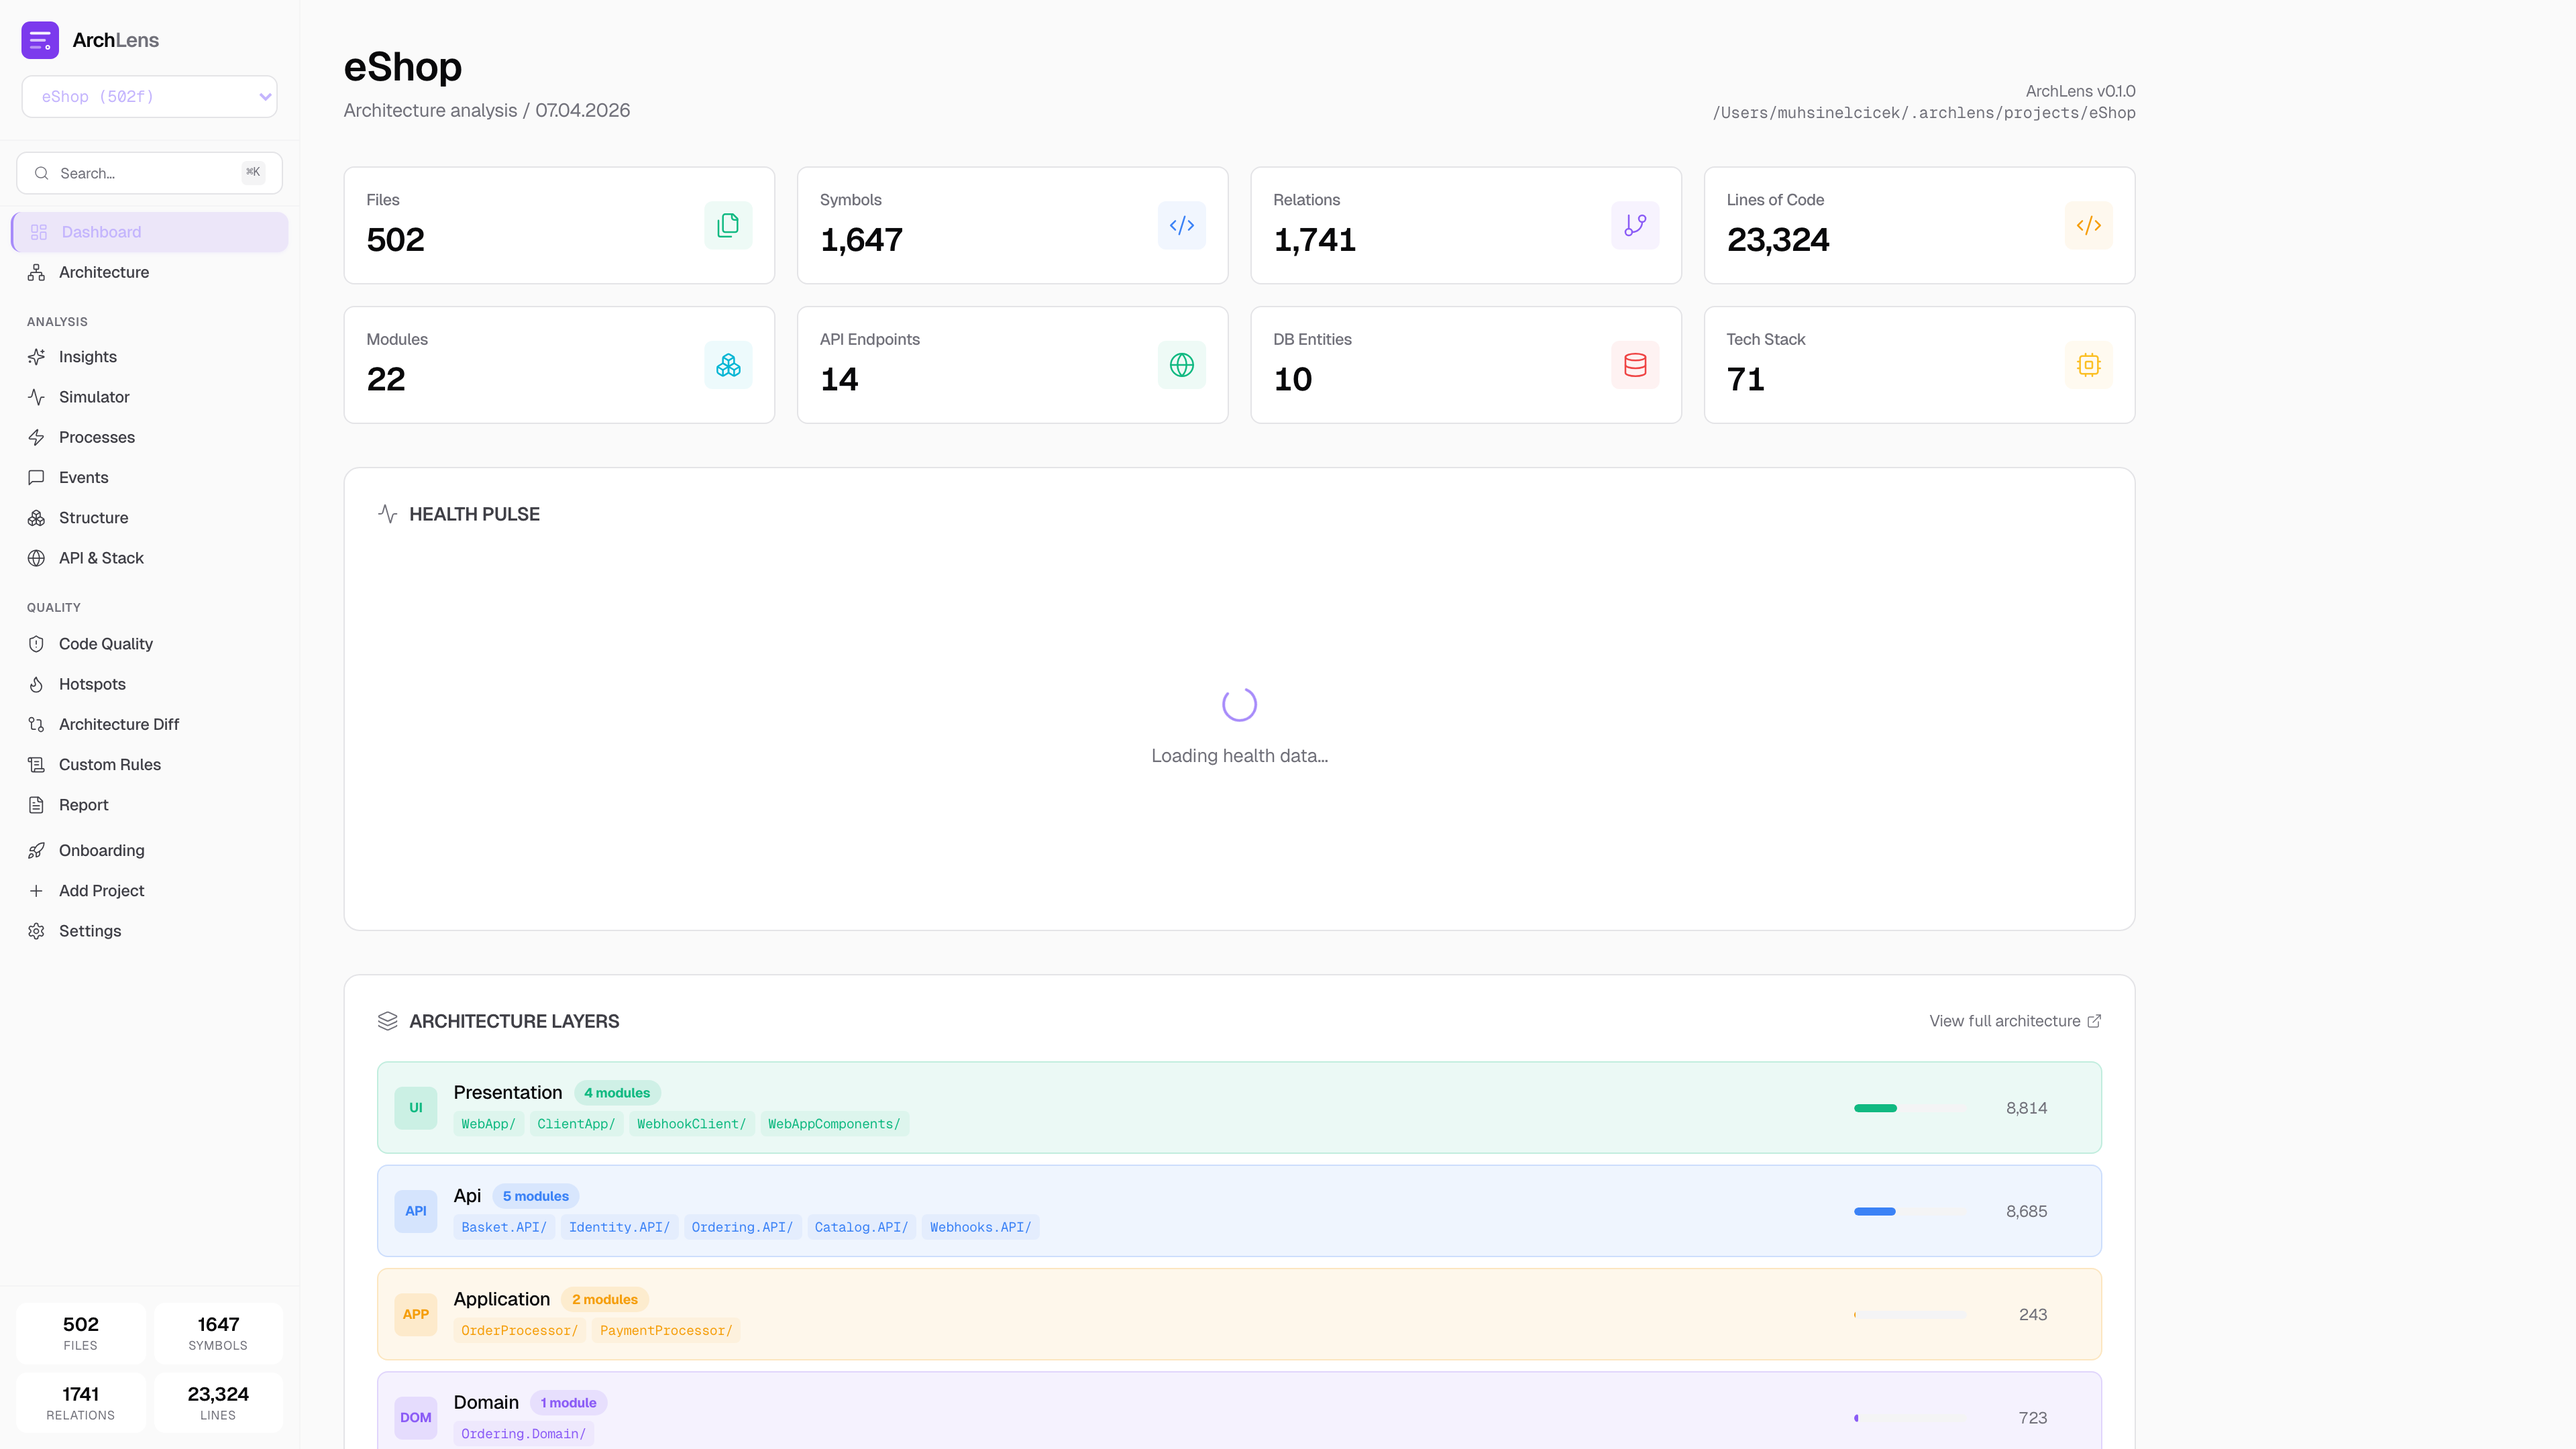
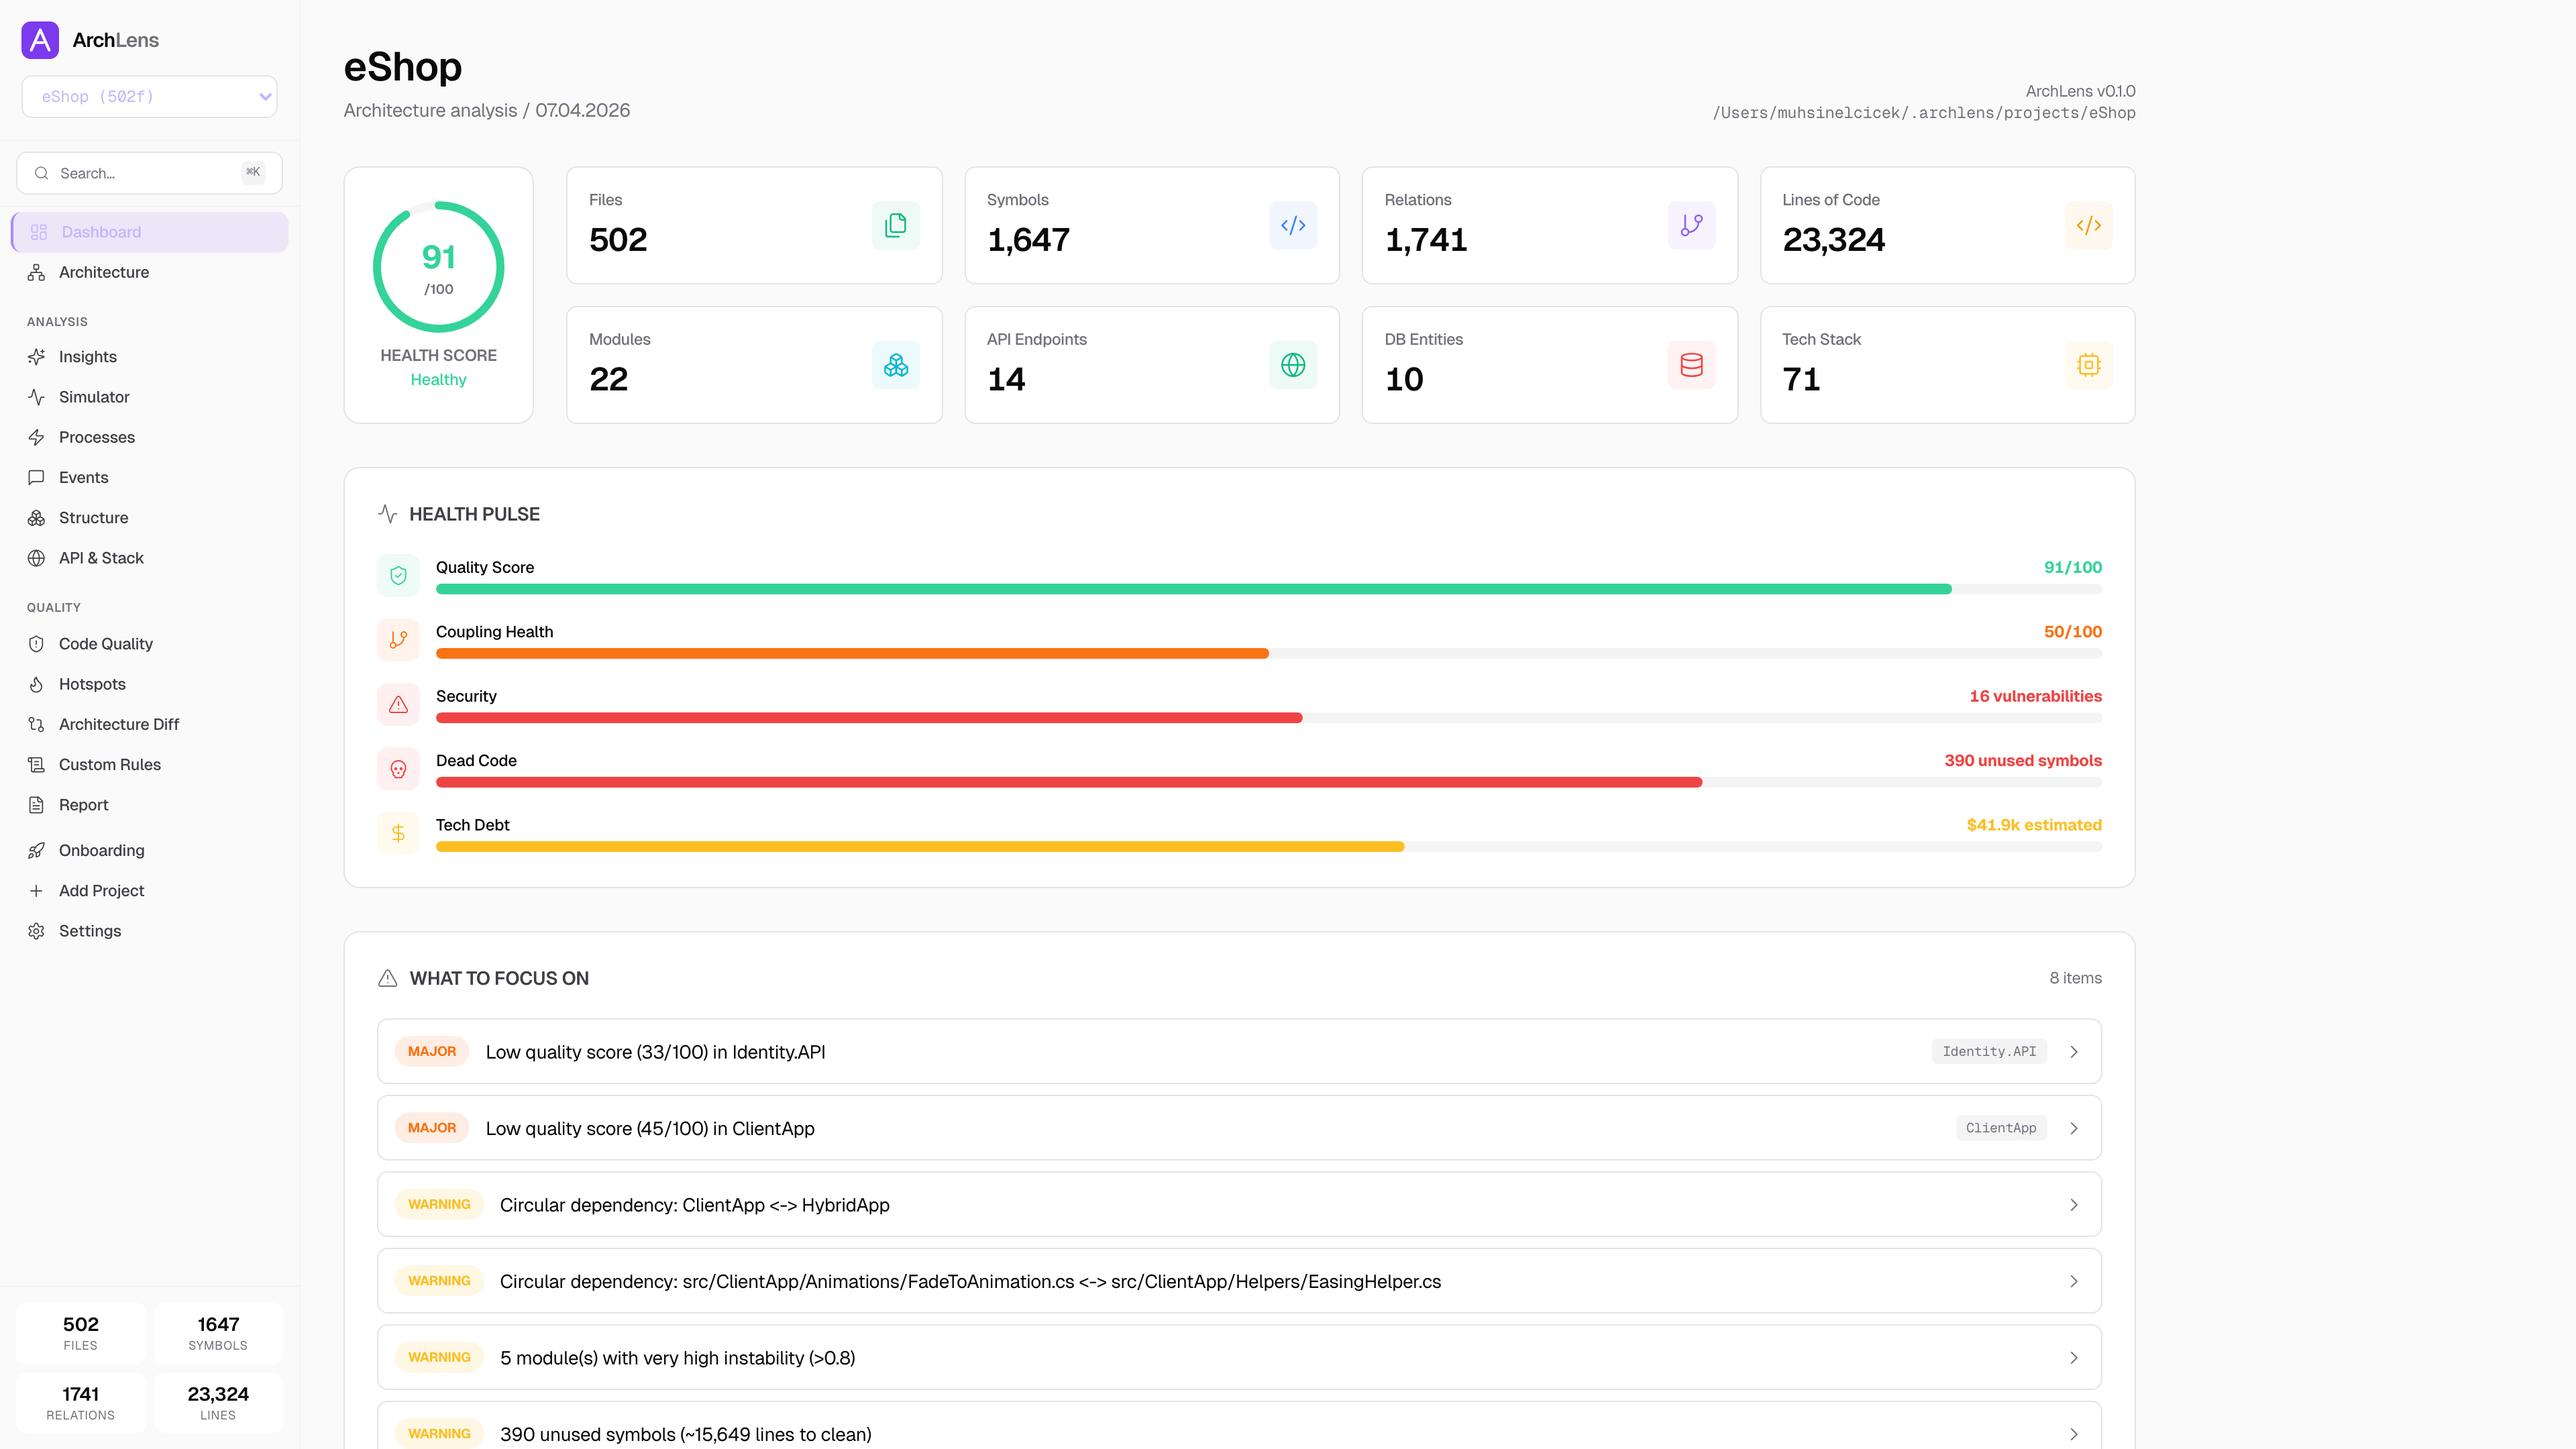
design: iconic bold A letter mark (Atlassian/Linear-style)
Replaces previous stacked-bars logo with a more iconic,
corporate A letterform:
- Clean geometric A formed by two angled strokes + crossbar
- Small accent dot on right crossbar (subtle 'lens' mark)
- White on violet squircle (10px corner radius)
- Distinctive silhouette even at favicon size (16x16)
- Single letterform = instant brand recognition

Updated in all 5 locations:
- public/archlens.svg (favicon)
- docs/img/logo.svg (README/landing hero)
- App.tsx sidebar logo
- App.tsx loading state logo
- All screenshots re-captured

diff --git a/packages/web/src/app/App.tsx b/packages/web/src/app/App.tsx
@@ -91,12 +91,10 @@ export function App() {
     return (
       <div className="flex h-screen flex-col items-center justify-center bg-[var(--color-void)] gap-4">
         <svg className="h-14 w-14 animate-pulse" viewBox="0 0 40 40" fill="none">
-          <rect width="40" height="40" rx="9" fill="#7c3aed"/>
-          <rect x="9" y="11" width="22" height="3" rx="1.5" fill="white" opacity="0.95"/>
-          <rect x="9" y="18.5" width="17" height="3" rx="1.5" fill="white" opacity="0.7"/>
-          <rect x="9" y="26" width="12" height="3" rx="1.5" fill="white" opacity="0.45"/>
-          <circle cx="28" cy="27.5" r="2.5" fill="white"/>
-          <circle cx="28" cy="27.5" r="1" fill="#7c3aed"/>
+          <rect width="40" height="40" rx="10" fill="#7c3aed"/>
+          <path d="M10.5 30.5 L20 9 L29.5 30.5" stroke="white" strokeWidth="3" strokeLinecap="round" strokeLinejoin="round"/>
+          <path d="M14.5 22.5 L23 22.5" stroke="white" strokeWidth="3" strokeLinecap="round"/>
+          <circle cx="26" cy="22.5" r="1.5" fill="white"/>
         </svg>
         <Loader2 className="h-4 w-4 animate-spin text-[var(--color-text-muted)]" />
         <p className="text-[var(--color-text-secondary)] font-medium text-sm">Loading architecture model</p>
@@ -129,12 +127,10 @@ export function App() {
         <div className="p-4 border-b border-[var(--color-border-subtle)]">
           <div className="flex items-center gap-2.5">
             <svg className="h-7 w-7" viewBox="0 0 40 40" fill="none" aria-label="ArchLens">
-              <rect width="40" height="40" rx="9" fill="#7c3aed"/>
-              <rect x="9" y="11" width="22" height="3" rx="1.5" fill="white" opacity="0.95"/>
-              <rect x="9" y="18.5" width="17" height="3" rx="1.5" fill="white" opacity="0.7"/>
-              <rect x="9" y="26" width="12" height="3" rx="1.5" fill="white" opacity="0.45"/>
-              <circle cx="28" cy="27.5" r="2.5" fill="white"/>
-              <circle cx="28" cy="27.5" r="1" fill="#7c3aed"/>
+              <rect width="40" height="40" rx="10" fill="#7c3aed"/>
+              <path d="M10.5 30.5 L20 9 L29.5 30.5" stroke="white" strokeWidth="3" strokeLinecap="round" strokeLinejoin="round"/>
+              <path d="M14.5 22.5 L23 22.5" stroke="white" strokeWidth="3" strokeLinecap="round"/>
+              <circle cx="26" cy="22.5" r="1.5" fill="white"/>
             </svg>
             <h1 className="text-[15px] font-semibold tracking-tight">
               <span className="text-[var(--color-text-primary)]">Arch</span><span className="text-[var(--color-text-muted)]">Lens</span>
